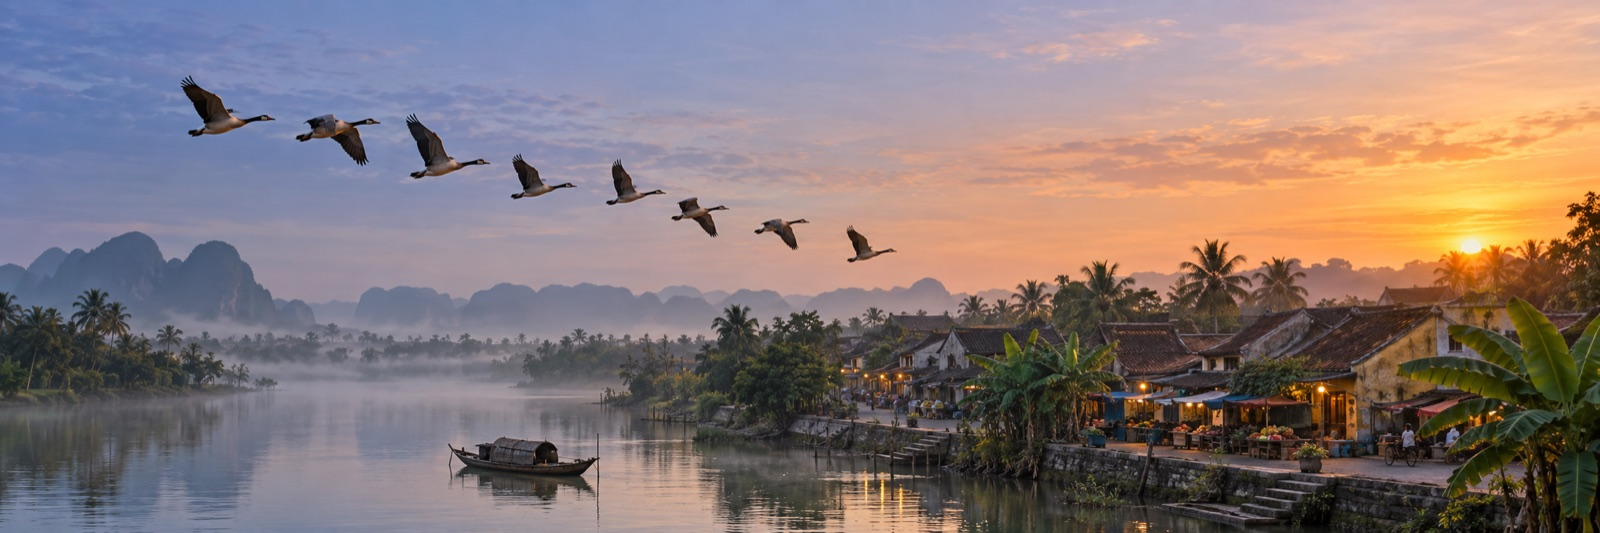
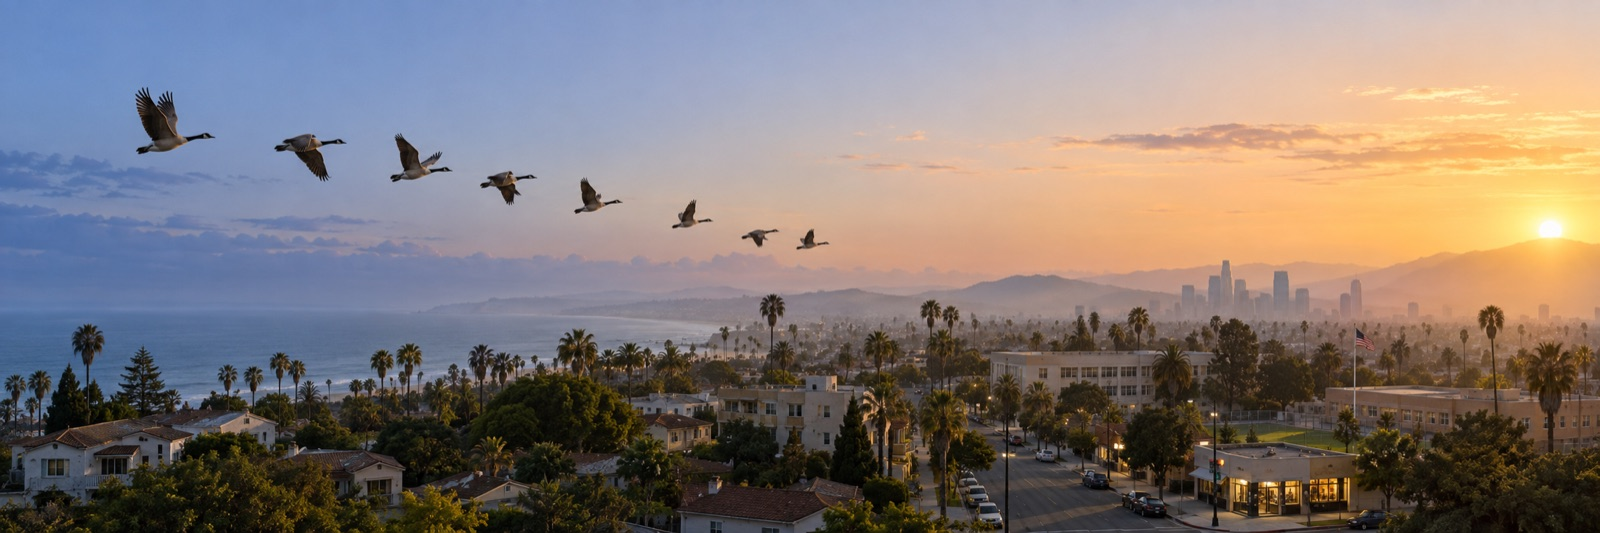
design: 달러 기준 시나리오(서울 아빠 → LA 지우) + LA 도착 히어로(Codex)

diff --git a/design/kirogi-dna.html b/design/kirogi-dna.html
@@ -94,8 +94,8 @@
   <div class="img"></div>
   <div class="brand"><img src="assets/kirogi/kirogi-mark.png" alt="">Kirogi</div>
   <div class="pad" style="margin-top:-54px;position:relative;z-index:2">
-    <h1 class="display d1">Sent from Seoul.<br>Spent on groceries.</h1>
-    <p class="lede">Money for a family with a border through it — earmarked for what it's for, paid to the shop in under a second.</p>
+    <h1 class="display d1">Sent from Seoul.<br>Spent on tuition.</h1>
+    <p class="lede">For a family with a border through it. Every dollar is earmarked for what it's for, and paid in under a second.</p>
   </div>
   <div class="btn" style="margin-top:auto">Get started</div>
   <p class="mono" style="text-align:center;margin:-10px 0 18px">Face ID · no seed phrase · no gas</p>
@@ -107,19 +107,19 @@
 <div><div class="phone"><div class="scr">
   <div class="island"></div><div class="sb"><span>9:41</span><span>5G</span></div>
   <div class="pad">
-    <div class="top"><span class="who"><span class="dot" style="background:var(--home)"></span>To Mẹ · Hồ Chí Minh</span><span>Cancel</span></div>
-    <h1 class="display d1" style="margin-top:22px">How much<br>goes home?</h1>
-    <div class="figure" style="margin-top:34px">300,000<span>KRW</span></div>
+    <div class="top"><span class="who"><span class="dot" style="background:var(--home)"></span>To Jiwoo · Los Angeles</span><span>Cancel</span></div>
+    <h1 class="display d1" style="margin-top:22px">How much<br>goes to Jiwoo?</h1>
+    <div class="figure" style="margin-top:34px">2,000<span>USD</span></div>
     <div class="card arrive">
-      <dt>Mẹ receives</dt><dd style="color:var(--home)">₫5,520,000</dd>
-      <dt>Fee</dt><dd>0</dd>
+      <dt>Jiwoo receives</dt><dd style="color:var(--home)">$2,000.00</dd>
+      <dt>From your account</dt><dd>₩2,742,000</dd>
       <dt>Arrives</dt><dd>under 1 second</dd>
     </div>
   </div>
   <div class="keys"><div>1</div><div>2</div><div>3</div><div>4</div><div>5</div><div>6</div><div>7</div><div>8</div><div>9</div><div></div><div>0</div><div style="font-size:16px;color:var(--dim)">⌫</div></div>
   <div class="btn">Continue</div>
 </div></div>
-<p class="cap"><b>Amount.</b> One question, one figure. The home side is warm from the first screen.</p></div>
+<p class="cap"><b>Amount.</b> One question, one figure. The family side is warm from the first screen; dollars are the unit everywhere.</p></div>
 
 <!-- 2 · earmark -->
 <div><div class="phone"><div class="scr">
@@ -127,63 +127,63 @@
   <div class="pad">
     <div class="top"><span>Back</span><span class="mono">2 / 3</span></div>
     <h1 class="display d1" style="margin-top:22px">What is it for?</h1>
-    <p class="lede">Mẹ can spend each part only at the shops you allow.</p>
+    <p class="lede">Jiwoo can spend each part only where you allow.</p>
     <div class="alloc">
-      <div><div class="h"><span class="n">Groceries</span><span class="v">150,000</span></div>
-        <div class="mono s">markets · supermarkets</div><div class="track"><i style="width:50%"></i></div></div>
-      <div><div class="h"><span class="n">School</span><span class="v">120,000</span></div>
-        <div class="mono s">Anh Ngữ Việt Mỹ only</div><div class="track"><i style="width:40%"></i></div></div>
-      <div><div class="h"><span class="n">Pharmacy</span><span class="v">30,000</span></div>
-        <div class="mono s">pharmacies · clinics</div><div class="track"><i style="width:10%"></i></div></div>
+      <div><div class="h"><span class="n">Tuition</span><span class="v">$1,200</span></div>
+        <div class="mono s">Westwood Academy only</div><div class="track"><i style="width:60%"></i></div></div>
+      <div><div class="h"><span class="n">Rent</span><span class="v">$500</span></div>
+        <div class="mono s">landlord · 1142 Kelton Ave</div><div class="track"><i style="width:25%"></i></div></div>
+      <div><div class="h"><span class="n">Groceries</span><span class="v">$300</span></div>
+        <div class="mono s">grocery stores</div><div class="track"><i style="width:15%"></i></div></div>
       <div class="add">+ Add a purpose</div>
     </div>
     <p class="mono" style="margin-top:14px">Unspent after 30 days comes back.</p>
   </div>
-  <div class="btn" style="margin-top:auto;margin-top:auto">Send 300,000 KRW</div>
+  <div class="btn" style="margin-top:auto;margin-top:auto">Send $2,000</div>
 </div></div>
-<p class="cap"><b>Earmark.</b> Purposes as rows in one ruled block, not a pile of cards. The fill is warm because it is Mẹ's money now.</p></div>
+<p class="cap"><b>Earmark.</b> Purposes as rows in one ruled block, not a pile of cards. The fill is warm because it is Jiwoo's money now.</p></div>
 
 <!-- 3 · family pays -->
 <div><div class="phone"><div class="scr">
   <div class="island"></div><div class="sb"><span>9:41</span><span>5G</span></div>
   <div class="pad">
-    <div class="top"><span class="who"><span class="dot" style="background:var(--send)"></span>From Hùng · Seoul</span></div>
+    <div class="top"><span class="who"><span class="dot" style="background:var(--send)"></span>From Dad · Seoul</span></div>
     <div class="mono" style="margin-top:22px">Left this month</div>
-    <div class="figure bal" style="font-size:44px">₫2,782,000</div>
+    <div class="figure bal" style="font-size:44px">$713.60</div>
     <div class="lanes">
-      <div class="on"><div class="n">Groceries</div><div class="v">₫2,410,000</div></div>
-      <div><div class="n">School</div><div class="v">₫0</div></div>
-      <div><div class="n">Pharmacy</div><div class="v">₫372,000</div></div>
+      <div class="on"><div class="n">Groceries</div><div class="v">$213.60</div></div>
+      <div><div class="n">Tuition</div><div class="v">$0</div></div>
+      <div><div class="n">Rent</div><div class="v">$500</div></div>
     </div>
     <div class="card pay">
-      <div class="mono">Scanned · Bách Hóa Xanh Q.3</div>
-      <div class="amt">₫350,000</div>
+      <div class="mono">Scanned · Westwood Market</div>
+      <div class="amt">$86.40</div>
       <div class="from"><span>Paid from</span><b>Groceries</b></div>
     </div>
   </div>
   <div class="btn" style="margin-top:auto">Pay</div>
 </div></div>
-<p class="cap"><b>Family side.</b> What's left, split by purpose; the shop's QR decides which part pays. Words she already uses.</p></div>
+<p class="cap"><b>Family side.</b> What's left, split by purpose; the shop's QR decides which part pays.</p></div>
 
 <!-- 4 · sender sees it land -->
 <div><div class="phone"><div class="scr">
   <div class="island"></div><div class="sb"><span>9:41</span><span>5G</span></div>
   <div class="pad">
     <div class="top"><span>Activity</span></div>
-    <h1 class="display d1" style="margin-top:22px">Mẹ bought<br>groceries.</h1>
+    <h1 class="display d1" style="margin-top:22px">Jiwoo bought<br>groceries.</h1>
     <div class="card verdict">
       <div class="pill"><span class="dot" style="background:var(--pass)"></span>Shop was paid<span class="note">0.8 s</span></div>
       <dl class="kv">
-        <dt>Shop</dt><dd>Bách Hóa Xanh Q.3</dd>
+        <dt>Shop</dt><dd>Westwood Market</dd>
         <dt>From</dt><dd>Groceries</dd>
         <dt>Block</dt><dd>41,882,017</dd>
         <dt>Tx</dt><dd>0x9c08…0307</dd>
       </dl>
     </div>
     <div class="feed">
-      <div class="it"><span class="dot" style="background:var(--home)"></span><div class="t">Pharmacity<span class="mono">Pharmacy · 0.9 s</span></div><div class="v">₫180,000</div></div>
-      <div class="it"><span class="dot" style="background:var(--home)"></span><div class="t">Anh Ngữ Việt Mỹ<span class="mono">School · 0.7 s</span></div><div class="v">₫2,000,000</div></div>
-      <div class="it"><span class="dot" style="background:var(--send)"></span><div class="t">You sent<span class="mono">Sep 1 · 0.6 s</span></div><div class="v">₫5,520,000</div></div>
+      <div class="it"><span class="dot" style="background:var(--home)"></span><div class="t">Westwood Academy<span class="mono">Tuition · 0.7 s</span></div><div class="v">$1,200.00</div></div>
+      <div class="it"><span class="dot" style="background:var(--home)"></span><div class="t">1142 Kelton Ave<span class="mono">Rent · 0.9 s</span></div><div class="v">$500.00</div></div>
+      <div class="it"><span class="dot" style="background:var(--send)"></span><div class="t">You sent<span class="mono">Sep 1 · 0.6 s</span></div><div class="v">$2,000.00</div></div>
     </div>
   </div>
 </div></div>

diff --git a/docs/DESIGN.md b/docs/DESIGN.md
@@ -1,6 +1,8 @@
 # 디자인 설계 — Kirogi (Monad)
 
 > **2026-09-27 방향 확정:** 이름·마크는 기러기(CTC) 그대로. 토큰·타이포·톤은 기러기 DNA(`design/kirogi-dna.html`) — 방향=색(보내는 쪽 #8fa6ff → 가족 쪽 #f0b36b, 정산 #46cf95), Archivo 선언형 제목, 1px 선, 증거 우선. 아래 토스 원칙은 UX 뼈대로만 유지.
+>
+> **데모 시나리오 확정 (달러 기준):** 서울에서 일하는 아빠 → LA에서 공부하는 지우. 용도 = 학비(학교 한 곳)·월세(집주인)·식비(마트). 제품 자체는 통화·가맹점·용도를 설정으로 바꿀 수 있게 국가 중립으로 만든다. (아래 베트남 시나리오는 초기안)
 
 ## (초기) 가칭 Earmark — "용도를 정해 보내는 송금"
 
